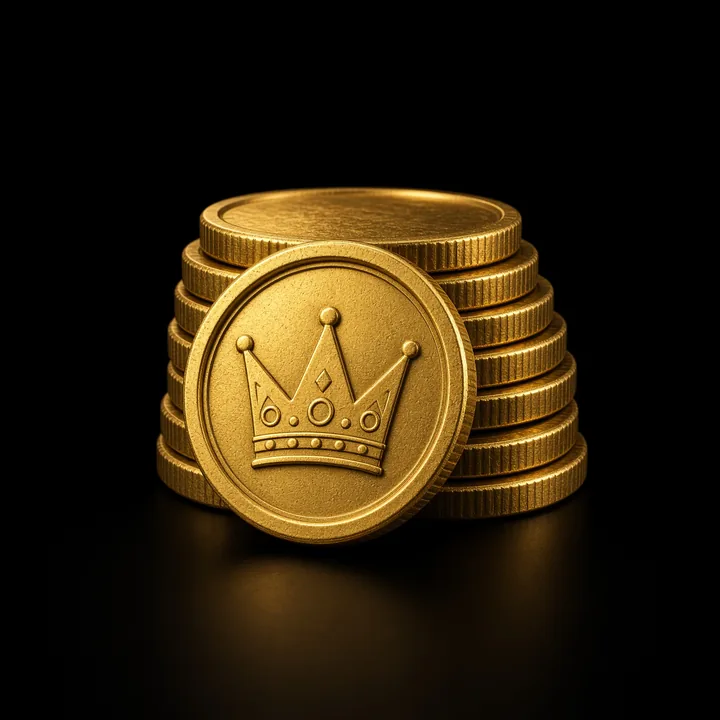
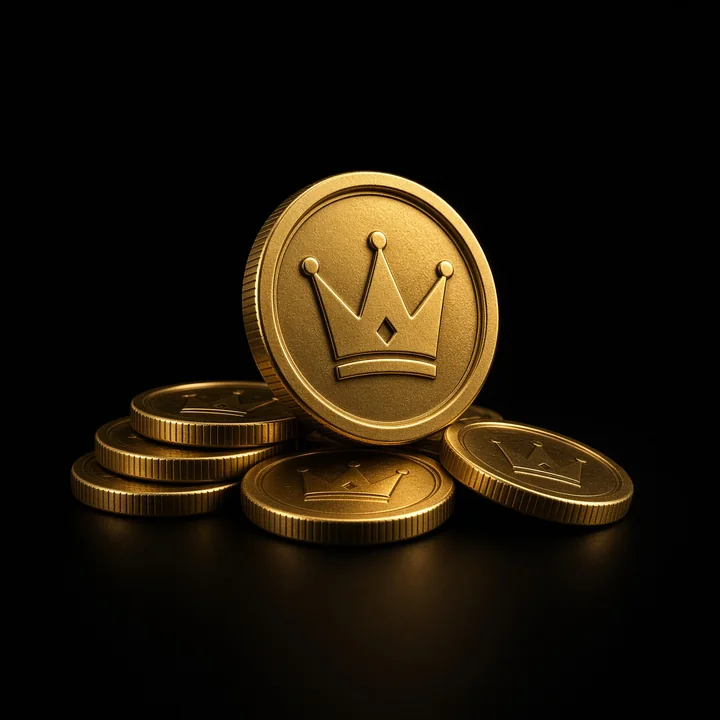
Redesign checkout with blended art and tighter Awwwards-style alignment.

Changed region(s): [[0.0917, 0.2139, 0.8861, 0.9778]]

diff --git a/src/routes/pay.index.tsx b/src/routes/pay.index.tsx
@@ -134,23 +134,22 @@ function PayPage() {
   return (
     <div className="relative flex min-h-screen flex-col">
       <Navbar />
-      <main id="main" className="page-enter relative z-10 mx-auto w-full max-w-6xl px-4 py-8 pb-24 sm:py-10 sm:pb-12">
+      <main id="main" className="page-enter relative z-10 mx-auto w-full max-w-6xl px-4 py-6 pb-16 sm:py-8">
         <button
           type="button"
           onClick={cancel}
-          className="mb-5 inline-flex min-h-11 items-center gap-1.5 text-[12px] font-semibold text-white/40 hover:text-fg"
+          className="mb-4 inline-flex min-h-9 items-center gap-1.5 text-[12px] font-semibold text-white/40 hover:text-fg"
         >
           <ArrowLeft className="h-3.5 w-3.5" /> Change amount
         </button>
 
-        <p className="text-[11px] font-bold tracking-[0.18em] text-gold uppercase">Secure checkout</p>
-        <h1 className="mt-1 font-display text-4xl font-black tracking-tight text-fg sm:text-5xl">Buy Credits</h1>
-        <p className="mt-2 max-w-2xl text-sm leading-relaxed text-white/50">
-          Pay securely through Stripe. Credits are added to your wallet after payment confirmation and can then be
-          spent to increase your Score.
+        <p className="text-[10px] font-bold tracking-[0.2em] text-gold uppercase">Secure checkout</p>
+        <h1 className="mt-1 font-display text-3xl font-black tracking-tight text-fg sm:text-4xl">Buy Credits</h1>
+        <p className="mt-1.5 max-w-xl text-[13px] leading-relaxed text-white/45">
+          Pay with Stripe. Credits land in your wallet after confirmation, then spend 1:1 for Score.
         </p>
 
-        <ol className="pay-steps mt-6" aria-label="Checkout steps">
+        <ol className="pay-steps mt-4" aria-label="Checkout steps">
           <li className="is-on">
             <span className="grid h-4 w-4 place-items-center rounded-full bg-[#1a1408] text-[9px] font-black">1</span>
             Amount
@@ -165,7 +164,7 @@ function PayPage() {
           </li>
         </ol>
 
-        <div id="amount-packs" className="mt-5 grid grid-cols-2 gap-2 sm:grid-cols-3 lg:grid-cols-6">
+        <div id="amount-packs" className="mt-4 grid grid-cols-3 gap-2 sm:grid-cols-6">
           {packages.map((p) => {
             const on = !custom && usd === p;
             return (
@@ -174,17 +173,17 @@ function PayPage() {
                 type="button"
                 disabled={switching}
                 onClick={() => void restart(p)}
-                className={`relative rounded-2xl border px-3 py-3 text-left transition ${
-                  on ? "border-gold bg-gold/10 shadow-[0_0_0_1px_rgba(196,162,74,0.45)]" : "border-white/[0.08] bg-[#12121a] hover:border-white/16"
+                className={`relative rounded-xl border px-3 py-2.5 text-left transition ${
+                  on ? "border-gold/70 bg-gold/10" : "border-white/[0.07] bg-white/[0.03] hover:border-white/14"
                 }`}
               >
                 {on ? (
-                  <span className="absolute top-2 right-2 grid h-5 w-5 place-items-center rounded-full bg-gold text-[#1a1408]">
-                    <Check className="h-3 w-3" strokeWidth={3} />
+                  <span className="absolute top-1.5 right-1.5 grid h-4 w-4 place-items-center rounded-full bg-gold text-[#1a1408]">
+                    <Check className="h-2.5 w-2.5" strokeWidth={3} />
                   </span>
                 ) : null}
-                <p className="font-display text-xl font-black text-fg">${p}</p>
-                <p className="mt-0.5 text-[11px] text-white/45">{formatScore(creditsFromUsd(p, eco))} Credits</p>
+                <p className="font-display text-lg font-black text-fg">${p}</p>
+                <p className="text-[10px] text-white/40">{formatScore(creditsFromUsd(p, eco))} Credits</p>
               </button>
             );
           })}
@@ -196,12 +195,12 @@ function PayPage() {
                 setCustom(true);
                 setCustomUsd(String(usd));
               }}
-              className={`rounded-2xl border px-3 py-3 text-left ${
-                custom || !inPackages ? "border-gold bg-gold/10" : "border-white/[0.08] bg-[#12121a] hover:border-white/16"
+              className={`rounded-xl border px-3 py-2.5 text-left ${
+                custom || !inPackages ? "border-gold/70 bg-gold/10" : "border-white/[0.07] bg-white/[0.03] hover:border-white/14"
               }`}
             >
-              <p className="font-display text-xl font-black text-fg">Custom</p>
-              <p className="mt-0.5 text-[11px] text-white/45">Enter amount</p>
+              <p className="font-display text-lg font-black text-fg">Custom</p>
+              <p className="text-[10px] text-white/40">Enter amount</p>
             </button>
           ) : null}
         </div>
@@ -234,101 +233,85 @@ function PayPage() {
           </form>
         ) : null}
 
-        <div className="mt-6 grid items-start gap-4 lg:grid-cols-2">
-          <aside className="pay-lux overflow-hidden rounded-[24px] p-5 sm:p-6">
-            <p className="flex items-center gap-2 text-[15px] font-extrabold text-fg">
-              <Package className="h-4 w-4 text-gold" /> Order Summary
+        <div className="mt-5 grid items-stretch gap-3 lg:grid-cols-2">
+          <aside className="pay-lux overflow-hidden rounded-[20px] p-5">
+            <p className="flex items-center gap-2 text-[13px] font-bold text-fg">
+              <Package className="h-3.5 w-3.5 text-gold" /> Order Summary
             </p>
-            <div className="mt-5 flex items-start justify-between gap-4">
-              <div className="min-w-0">
-                <p className="text-sm text-white/50">Pay4Rank Credits Pack</p>
-                <p className="mt-1 font-display text-5xl font-black tracking-tight text-gold-grad tabular-nums">
-                  ${formatUsd(usd)}
-                </p>
-                <p className="mt-1 font-display text-[28px] font-black text-fg">{formatScore(credits)} Credits</p>
-                <p className="mt-1 text-[12px] text-white/40">
-                  $1 = {formatScore(eco.creditsPerUsd)} Credits
-                </p>
-              </div>
+            <div className="relative mt-4 min-h-[132px] pr-28 sm:pr-36">
+              <p className="text-[12px] text-white/45">Pay4Rank Credits Pack</p>
+              <p className="mt-1 font-display text-4xl font-black tracking-tight text-gold-grad tabular-nums">
+                ${formatUsd(usd)}
+              </p>
+              <p className="mt-0.5 font-display text-xl font-black text-fg">{formatScore(credits)} Credits</p>
+              <p className="mt-1 text-[11px] text-white/38">$1 = {formatScore(eco.creditsPerUsd)} Credits</p>
               <img
-                src="/rank/coins.webp"
+                src="/rank/coins.webp?v=2"
                 alt=""
-                className="pay-coin h-32 w-32 shrink-0 object-contain sm:h-40 sm:w-40"
+                className="pay-art absolute -top-4 -right-4 h-36 w-36 object-contain sm:h-40 sm:w-40"
               />
             </div>
 
-            <dl className="mt-5 space-y-3 border-t border-white/[0.06] pt-4 text-sm">
+            <dl className="mt-4 space-y-2.5 border-t border-white/[0.06] pt-4">
               <Row label="Listing as" value={draft.displayName} />
               <Row label="Package Value" value={`${formatScore(credits)} Credits`} icon={<Package className="h-3.5 w-3.5" />} />
               <Row label="Score Potential" value={`Up to ${formatScore(credits)} Score`} icon={<Zap className="h-3.5 w-3.5" />} />
-              <Row label="Delivery" value="Added to wallet after Stripe confirms payment" icon={<Wallet className="h-3.5 w-3.5" />} />
-              <Row label="Usage" value="Spend Credits 1:1 to gain Score" icon={<Trophy className="h-3.5 w-3.5" />} />
+              <Row label="Delivery" value="Added after Stripe confirms" icon={<Wallet className="h-3.5 w-3.5" />} />
+              <Row label="Usage" value="Spend 1:1 to gain Score" icon={<Trophy className="h-3.5 w-3.5" />} />
             </dl>
 
-            <div className="pay-how relative mt-5 overflow-hidden rounded-2xl p-4 pr-28 sm:p-5 sm:pr-40">
-              <p className="flex items-center gap-2 text-[13px] font-bold text-fg">
-                <Info className="h-4 w-4 text-gold" /> How it works
+            <div className="pay-how relative mt-4 overflow-hidden rounded-xl p-3.5 pr-24">
+              <p className="flex items-center gap-2 text-[12px] font-bold text-fg">
+                <Info className="h-3.5 w-3.5 text-gold" /> How it works
               </p>
-              <ol className="relative z-10 mt-3 space-y-2 text-[13px] text-white/62">
-                {[
-                  "Buy Credits with Stripe",
-                  "Credits land in your wallet",
-                  "Spend Credits to rank up",
-                ].map((line, i) => (
-                  <li key={line} className="flex items-center gap-2.5">
-                    <span className="grid h-5 w-5 place-items-center rounded-full bg-gold text-[10px] font-black text-[#1a1408]">
+              <ol className="relative z-10 mt-2 space-y-1.5 text-[12px] text-white/58">
+                {["Buy Credits with Stripe", "Credits land in your wallet", "Spend Credits to rank up"].map((line, i) => (
+                  <li key={line} className="flex items-center gap-2">
+                    <span className="grid h-4 w-4 place-items-center rounded-full bg-gold text-[9px] font-black text-[#1a1408]">
                       {i + 1}
                     </span>
                     {line}
                   </li>
                 ))}
               </ol>
-              <img
-                src="/rank/wallet.webp"
-                alt=""
-                className="pointer-events-none absolute right-0 bottom-0 h-[108px] w-[168px] object-contain sm:h-[124px] sm:w-[196px]"
-              />
+              <img src="/rank/wallet.webp?v=2" alt="" className="pay-art absolute right-0 bottom-0 h-20 w-32 object-contain opacity-80" />
             </div>
 
-            <div className="mt-4 grid grid-cols-3 gap-2 text-center">
-              <TrustCell icon={<ShieldCheck className="mx-auto h-4 w-4 text-gold" />} title="Secure payment" body="Powered by Stripe" />
-              <TrustCell icon={<Lock className="mx-auto h-4 w-4 text-gold" />} title="No cash prize" body="Credits have no cash value" />
-              <TrustCell icon={<Trophy className="mx-auto h-4 w-4 text-gold" />} title="Public leaderboard" body="Shows Score, not money" />
+            <div className="mt-3 grid grid-cols-3 gap-1.5 text-center">
+              <TrustCell icon={<ShieldCheck className="mx-auto h-3.5 w-3.5 text-gold" />} title="Secure payment" body="Powered by Stripe" />
+              <TrustCell icon={<Lock className="mx-auto h-3.5 w-3.5 text-gold" />} title="No cash prize" body="No cash value" />
+              <TrustCell icon={<Trophy className="mx-auto h-3.5 w-3.5 text-gold" />} title="Public board" body="Shows Score" />
             </div>
 
             <button
               type="button"
               onClick={() => document.getElementById("amount-packs")?.scrollIntoView({ behavior: "smooth" })}
-              className="btn-outline tap mt-4 flex min-h-11 w-full items-center justify-center gap-2 rounded-xl text-xs font-bold"
+              className="btn-outline tap mt-3 flex min-h-9 w-full items-center justify-center gap-2 rounded-lg text-[11px] font-bold"
             >
               <Pencil className="h-3.5 w-3.5" /> Change Package
             </button>
           </aside>
 
-          <section className="pay-lux flex min-h-[520px] flex-col rounded-[24px] p-5 sm:p-6">
-            <div className="mb-4 flex items-center justify-between gap-3">
-              <h2 className="flex items-center gap-2 text-[15px] font-extrabold text-fg">
-                <Lock className="h-4 w-4 text-gold" /> Payment
+          <section className="pay-lux flex flex-col rounded-[20px] p-5">
+            <div className="mb-3 flex items-center justify-between gap-3">
+              <h2 className="flex items-center gap-2 text-[13px] font-bold text-fg">
+                <Lock className="h-3.5 w-3.5 text-gold" /> Payment
               </h2>
-              <span className="flex items-center gap-1 text-[11px] font-semibold text-white/45">
-                <Lock className="h-3 w-3" /> Encrypted · USD
+              <span className="flex items-center gap-1 text-[10px] font-semibold tracking-wide text-white/40 uppercase">
+                Encrypted · USD
               </span>
             </div>
-            <p className="text-[12px] text-white/45">
-              Pay4Rank Credits · {formatScore(credits)} credits
-            </p>
-            <p className="mt-1 font-display text-4xl font-black text-fg tabular-nums">US${formatUsd(usd)}</p>
-            <p className="mt-1 text-[12px] text-white/40">
-              USD {formatUsd(usd)} adds credits to your wallet. Spend credits 1:1 for Score.
-            </p>
+            <p className="text-[12px] text-white/45">Pay4Rank Credits · {formatScore(credits)} credits</p>
+            <p className="mt-0.5 font-display text-3xl font-black text-fg tabular-nums">US${formatUsd(usd)}</p>
+            <p className="mt-1 text-[11px] text-white/38">Adds credits to your wallet. Spend 1:1 for Score.</p>
 
-            <div className="relative mt-5 flex-1">
+            <div className="relative mt-4 flex min-h-0 flex-1">
               {switching ? (
                 <div className="absolute inset-0 z-10 grid place-items-center rounded-xl bg-black/50">
                   <p className="text-sm text-white/60">Updating checkout…</p>
                 </div>
               ) : null}
-              <div className="pay-stripe-frame min-h-[420px] p-2">
+              <div className="pay-stripe-frame w-full min-h-[380px]">
                 {canEmbed ? (
                   <StripeEmbed
                     key={draft.clientSecret || draft.sessionId}
@@ -336,13 +319,11 @@ function PayPage() {
                     clientSecret={draft.clientSecret!}
                   />
                 ) : draft.url ? (
-                  <div className="flex min-h-[400px] flex-col justify-end gap-4 p-4">
-                    <p className="text-sm text-[#3a3a42]">
-                      Continue with Stripe to add {formatScore(credits)} credits to your wallet.
-                    </p>
+                  <div className="flex min-h-[380px] flex-col justify-end gap-3 p-4">
+                    <p className="text-sm text-[#3a3a42]">Continue with Stripe to add {formatScore(credits)} credits.</p>
                     <a
                       href={draft.url}
-                      className="btn-gold tap flex min-h-12 w-full items-center justify-center gap-2 rounded-xl text-sm font-extrabold"
+                      className="btn-gold tap flex min-h-10 w-full items-center justify-center gap-2 rounded-lg text-sm font-extrabold"
                     >
                       <Lock className="h-4 w-4" /> Pay ${formatUsd(usd)}
                     </a>
@@ -355,10 +336,10 @@ function PayPage() {
           </section>
         </div>
 
-        <div className="trust-strip mt-5 grid grid-cols-1 divide-y divide-white/[0.08] rounded-[20px] sm:grid-cols-3 sm:divide-x sm:divide-y-0">
-          <FootNote icon={<Check className="h-4 w-4 text-gold" />} title="Credits are added after payment confirmation" />
-          <FootNote icon={<Zap className="h-4 w-4 text-gold" />} title="Wallet balance updates instantly" />
-          <FootNote icon={<Trophy className="h-4 w-4 text-gold" />} title="Spend Credits to gain Score" />
+        <div className="trust-strip mt-3 grid grid-cols-1 divide-y divide-white/[0.06] rounded-xl sm:grid-cols-3 sm:divide-x sm:divide-y-0">
+          <FootNote icon={<Check className="h-3.5 w-3.5 text-gold" />} title="Credits added after confirmation" />
+          <FootNote icon={<Zap className="h-3.5 w-3.5 text-gold" />} title="Wallet updates instantly" />
+          <FootNote icon={<Trophy className="h-3.5 w-3.5 text-gold" />} title="Spend Credits to gain Score" />
         </div>
       </main>
       <SiteFooter />
@@ -380,17 +361,17 @@ function Row({ label, value, icon }: { label: string; value: string; icon?: Reac
 
 function TrustCell({ icon, title, body }: { icon: ReactNode; title: string; body: string }) {
   return (
-    <div className="rounded-xl border border-white/[0.07] bg-black/25 px-2 py-3.5">
+    <div className="rounded-lg border border-white/[0.06] bg-black/20 px-1.5 py-2.5">
       {icon}
-      <p className="mt-1.5 text-[11px] font-bold text-fg">{title}</p>
-      <p className="mt-0.5 text-[10px] leading-snug text-white/42">{body}</p>
+      <p className="mt-1 text-[10px] font-bold text-fg">{title}</p>
+      <p className="mt-0.5 text-[9px] leading-snug text-white/40">{body}</p>
     </div>
   );
 }
 
 function FootNote({ icon, title }: { icon: ReactNode; title: string }) {
   return (
-    <p className="flex items-center justify-center gap-2.5 px-4 py-4 text-center text-[12px] text-white/62">
+    <p className="flex items-center justify-center gap-2 px-3 py-3 text-center text-[11px] text-white/50">
       {icon}
       {title}
     </p>

diff --git a/src/styles.css b/src/styles.css
@@ -1158,37 +1158,35 @@
 }
 .pay-lux {
   position: relative;
+  display: flex;
+  flex-direction: column;
   background:
-    radial-gradient(90% 70% at 100% 0%, rgba(212, 180, 80, 0.14), transparent 48%),
-    linear-gradient(180deg, rgba(22, 20, 28, 0.96) 0%, rgba(8, 8, 12, 0.95) 100%);
-  border: 1px solid rgba(212, 180, 80, 0.26);
+    radial-gradient(70% 50% at 100% 0%, rgba(212, 180, 80, 0.1), transparent 55%),
+    linear-gradient(180deg, rgba(18, 16, 22, 0.92) 0%, rgba(8, 8, 12, 0.94) 100%);
+  border: 1px solid rgba(255, 255, 255, 0.08);
   box-shadow:
-    0 28px 64px rgba(0, 0, 0, 0.55),
-    0 0 40px rgba(196, 162, 74, 0.1),
-    inset 0 1px 0 rgba(255, 244, 196, 0.08);
+    0 20px 48px rgba(0, 0, 0, 0.4),
+    inset 0 1px 0 rgba(255, 255, 255, 0.05);
 }
-.pay-coin {
-  filter: drop-shadow(0 12px 24px rgba(196, 162, 74, 0.35));
+.pay-art {
+  pointer-events: none;
+  mix-blend-mode: lighten;
+  user-select: none;
 }
 .pay-how {
-  background:
-    radial-gradient(80% 120% at 100% 80%, rgba(212, 180, 80, 0.16), transparent 55%),
-    linear-gradient(90deg, rgba(28, 24, 14, 0.92), rgba(12, 12, 16, 0.7));
-  border: 1px solid rgba(212, 180, 80, 0.22);
-  box-shadow: inset 0 1px 0 rgba(255, 244, 196, 0.08);
+  background: linear-gradient(90deg, rgba(22, 18, 12, 0.7), rgba(12, 12, 16, 0.35));
+  border: 1px solid rgba(212, 180, 80, 0.16);
 }
 .pay-stripe-frame {
   overflow: hidden;
-  border-radius: 16px;
-  background: #f7f7f8;
-  box-shadow:
-    0 0 0 1px rgba(212, 180, 80, 0.22),
-    0 18px 40px rgba(0, 0, 0, 0.28);
+  flex: 1;
+  border-radius: 14px;
+  background: #fff;
+  box-shadow: 0 0 0 1px rgba(255, 255, 255, 0.08);
 }
 .trust-strip {
-  background: linear-gradient(180deg, rgba(18, 16, 24, 0.92), rgba(10, 10, 14, 0.9));
-  border: 1px solid rgba(255, 255, 255, 0.08);
-  box-shadow: inset 0 1px 0 rgba(255, 255, 255, 0.05);
+  background: rgba(10, 10, 14, 0.55);
+  border: 1px solid rgba(255, 255, 255, 0.06);
 }
 
 .stagger-in > * {
